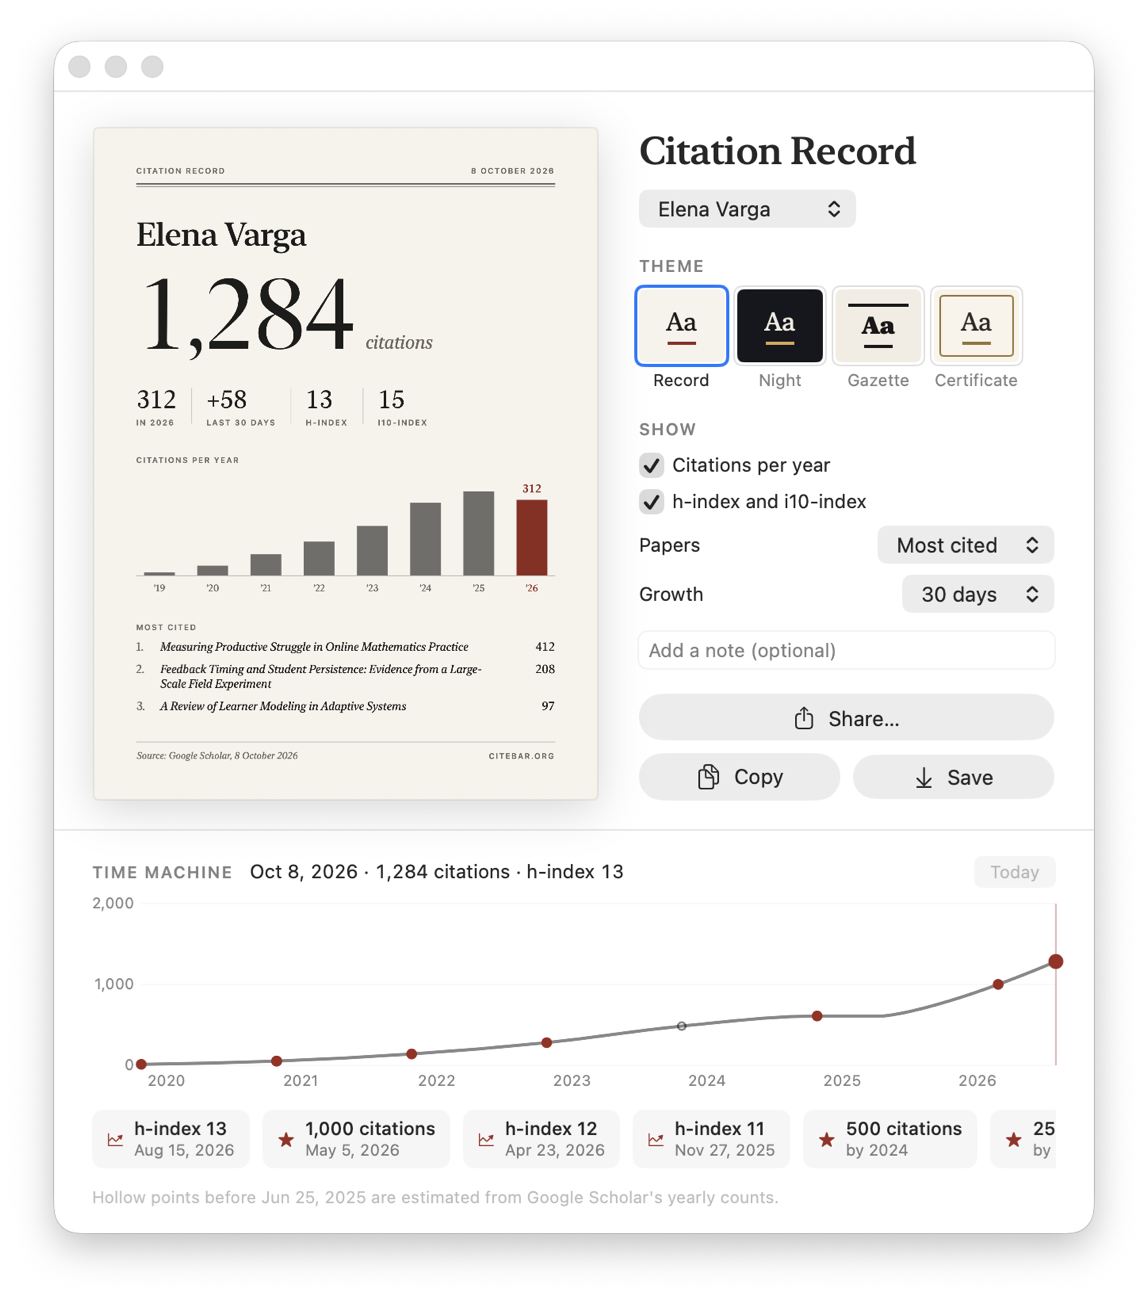
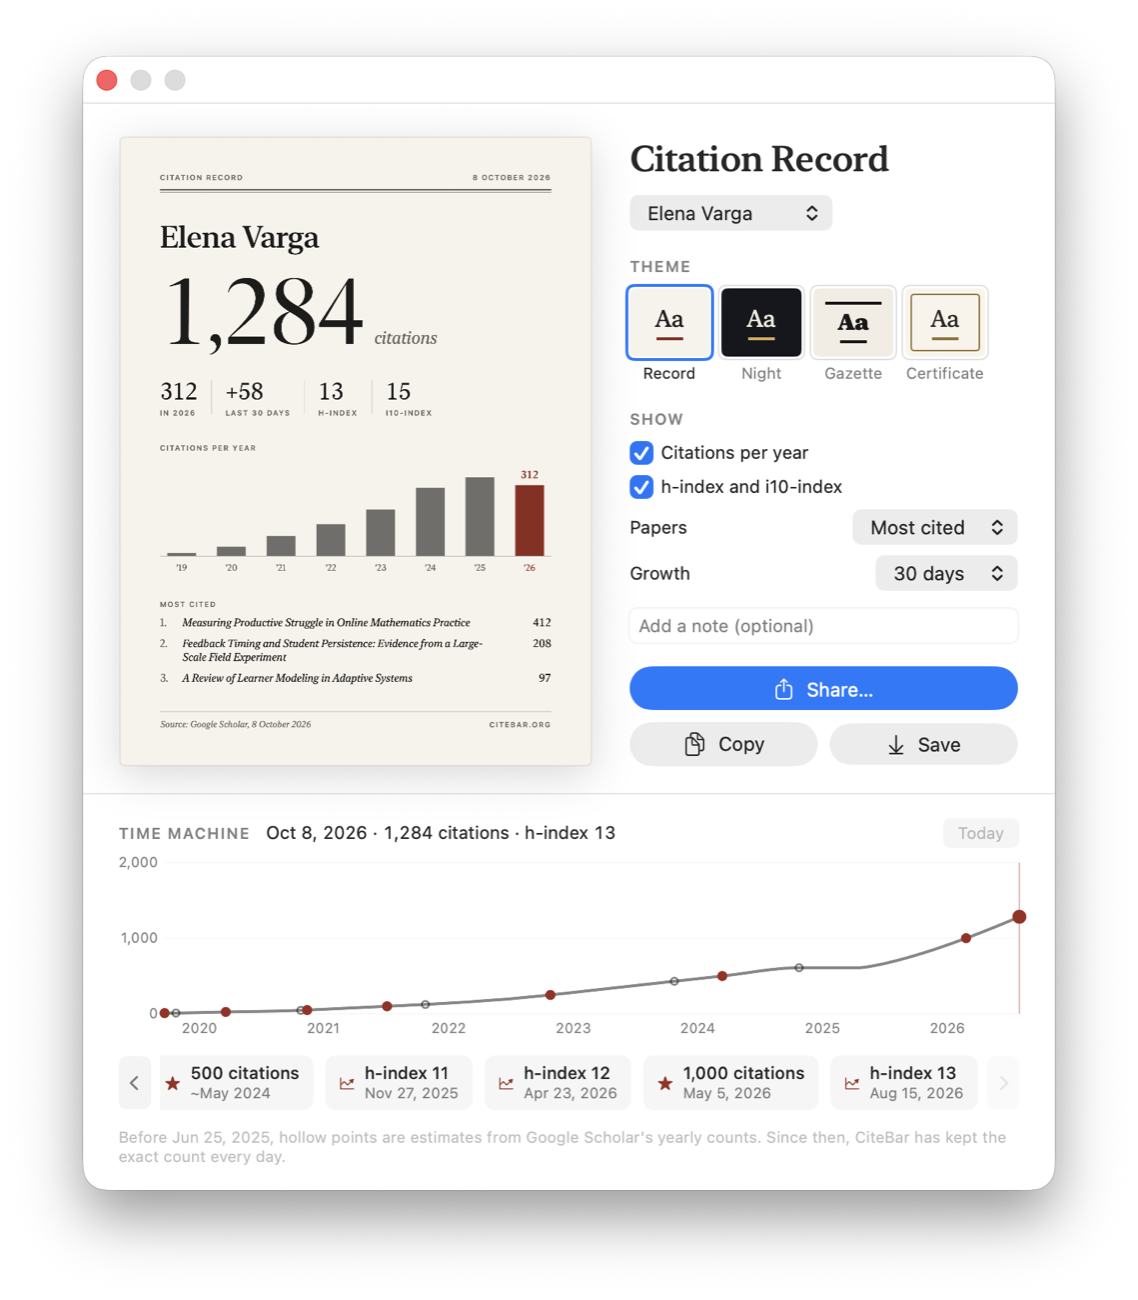
fix(studio): date earlier milestones from yearly counts and keep the papers option on past days

diff --git a/Sources/CiteBar/Timeline.swift b/Sources/CiteBar/Timeline.swift
@@ -1,8 +1,8 @@
 import Foundation
 
-/// A profile's citation history as a timeline: one point per tracked day, plus year-end
-/// estimates from Google Scholar's yearly counts for the years before tracking began, and the
-/// moments worth celebrating (citation milestones, h-index increases).
+/// A profile's citation history as a timeline: one point per tracked day, plus estimates from
+/// Google Scholar's yearly counts for the years before tracking began, and the moments worth
+/// celebrating (citation milestones, h-index increases).
 struct CitationTimeline {
     struct Point: Identifiable, Equatable {
         let date: Date
@@ -10,7 +10,7 @@ struct CitationTimeline {
         let hIndex: Int?
         let i10Index: Int?
         let citationsByYear: [Int: Int]?
-        /// Year-end total estimated from Scholar's per-year counts, before tracking began.
+        /// Estimated from Scholar's per-year counts, before tracking began.
         let isEstimate: Bool
 
         var id: Date { date }
@@ -24,7 +24,7 @@ struct CitationTimeline {
 
         let date: Date
         let kind: Kind
-        /// Dated to a year-end estimate rather than an observed refresh.
+        /// Dated by estimate rather than seen on a refresh.
         let isEstimate: Bool
 
         var id: String { "\(date.timeIntervalSince1970)-\(kind)" }
@@ -53,44 +53,75 @@ struct CitationTimeline {
                       citationsByYear: $0.citationsByYear, isEstimate: false)
             }
 
+        // Before tracking began, estimate year-end totals from Scholar's per-year counts. The latest
+        // counts are the most complete (records from older versions have none), and they're scaled
+        // to add up to that record's total, which also includes citations Scholar gives no year.
         var estimates: [Point] = []
-        if let first = tracked.first, let byYear = first.citationsByYear {
-            let firstYear = calendar.component(.year, from: first.date)
+        var origin: Point?
+        if let first = tracked.first,
+           let latest = tracked.last(where: { !($0.citationsByYear ?? [:]).isEmpty }),
+           let byYear = latest.citationsByYear,
+           let startYear = byYear.filter({ $0.value > 0 }).keys.min(),
+           let start = calendar.date(from: DateComponents(year: startYear, month: 1, day: 1)),
+           start < first.date {
+            let scale = Double(latest.citations) / Double(byYear.values.reduce(0, +))
+            origin = Point(date: start, citations: 0, hIndex: nil, i10Index: nil, citationsByYear: [:], isEstimate: true)
             var running = 0
-            for year in byYear.keys.sorted() where year < firstYear {
-                // Yearly counts can disagree slightly with the total; never estimate past
-                // the first tracked total, so the line only rises.
-                running = min(first.citations, running + (byYear[year] ?? 0))
-                guard running > 0,
-                      let yearEnd = calendar.date(from: DateComponents(year: year, month: 12, day: 31, hour: 12)) else {
+            for year in startYear..<calendar.component(.year, from: first.date) {
+                running += byYear[year] ?? 0
+                guard let yearEnd = calendar.date(from: DateComponents(year: year, month: 12, day: 31, hour: 12)) else {
                     continue
                 }
-                let soFar = byYear.filter { $0.key <= year }
-                estimates.append(Point(date: yearEnd, citations: running, hIndex: nil, i10Index: nil,
-                                       citationsByYear: soFar, isEstimate: true))
+                // Never past the first tracked total, so the line only rises.
+                let total = min(first.citations, Int((Double(running) * scale).rounded()))
+                estimates.append(Point(date: yearEnd, citations: total, hIndex: nil, i10Index: nil,
+                                       citationsByYear: byYear.filter { $0.key <= year }, isEstimate: true))
             }
         }
 
-        points = estimates + tracked
-        moments = Self.findMoments(in: points)
+        let found = Self.findMoments(in: estimates + tracked, after: origin, calendar: calendar)
+        points = (estimates + tracked + found.crossings).sorted { $0.date < $1.date }
+        moments = found.moments
     }
 
-    private static func findMoments(in points: [Point]) -> [Moment] {
+    /// Citation milestones and h-index increases. A milestone passed on an estimated stretch gets
+    /// a point of its own, dated as if citations came in evenly between its neighbours. Without
+    /// an estimated past, milestones already passed on the first tracked day are left out: their
+    /// dates are unknown.
+    private static func findMoments(in points: [Point], after origin: Point?,
+                                     calendar: Calendar) -> (moments: [Moment], crossings: [Point]) {
         var moments: [Moment] = []
-        var previous: Point?
+        var crossings: [Point] = []
+        var previous = origin
+        // Scholar's numbers sometimes dip and recover; only new highs count.
+        var bestCitations = origin?.citations ?? 0
+        var bestHIndex = 0
         for point in points {
-            let before = previous?.citations ?? 0
-            for threshold in CitationManager.citationMilestones where before < threshold && point.citations >= threshold {
-                // Crossed before the first tracked day: only known to the year (or the first day).
-                let isEstimate = point.isEstimate || (previous?.isEstimate ?? true)
-                moments.append(Moment(date: point.date, kind: .citations(threshold), isEstimate: isEstimate))
+            defer {
+                previous = point
+                bestCitations = max(bestCitations, point.citations)
+                bestHIndex = max(bestHIndex, point.hIndex ?? 0)
             }
-            if let old = previous?.hIndex, let new = point.hIndex, new > old {
+            guard let previous else { continue }
+            let isEstimate = previous.isEstimate || point.isEstimate
+            for threshold in CitationManager.citationMilestones
+            where bestCitations < threshold && point.citations >= threshold {
+                var date = point.date
+                if isEstimate && threshold < point.citations {
+                    let fraction = Double(threshold - previous.citations) / Double(point.citations - previous.citations)
+                    date = previous.date.addingTimeInterval(point.date.timeIntervalSince(previous.date) * fraction)
+                    var byYear = previous.citationsByYear ?? [:]
+                    byYear[calendar.component(.year, from: date), default: 0] += threshold - previous.citations
+                    crossings.append(Point(date: date, citations: threshold, hIndex: nil, i10Index: nil,
+                                           citationsByYear: byYear, isEstimate: true))
+                }
+                moments.append(Moment(date: date, kind: .citations(threshold), isEstimate: isEstimate))
+            }
+            if bestHIndex > 0, let new = point.hIndex, new > bestHIndex {
                 moments.append(Moment(date: point.date, kind: .hIndex(new), isEstimate: false))
             }
-            previous = point
         }
-        return moments
+        return (moments, crossings)
     }
 
     /// The latest point on or before `date`, or the first point when `date` is earlier.

diff --git a/Tests/CiteBarTests/CiteBarTests.swift b/Tests/CiteBarTests/CiteBarTests.swift
@@ -520,28 +520,51 @@ final class CiteBarTests: XCTestCase {
         func date(_ y: Int, _ m: Int, _ d: Int, _ h: Int = 10) -> Date {
             calendar.date(from: DateComponents(year: y, month: m, day: d, hour: h))!
         }
-        let byYear = [2023: 40, 2024: 50, 2025: 5]
+        // Like a profile first tracked by an older CiteBar: only the latest record has yearly counts.
         let records = [
-            CitationRecord(profileId: "p", citationCount: 95, hIndex: 4, citationsByYear: byYear, timestamp: date(2025, 1, 10, 9)),
-            CitationRecord(profileId: "p", citationCount: 96, hIndex: 4, citationsByYear: byYear, timestamp: date(2025, 1, 10, 18)),
-            CitationRecord(profileId: "p", citationCount: 101, hIndex: 5, citationsByYear: byYear, timestamp: date(2025, 2, 1)),
-            CitationRecord(profileId: "p", citationCount: 110, hIndex: 5, citationsByYear: byYear, timestamp: date(2025, 3, 1))
+            CitationRecord(profileId: "p", citationCount: 95, hIndex: 4, timestamp: date(2025, 1, 10, 9)),
+            CitationRecord(profileId: "p", citationCount: 96, hIndex: 4, timestamp: date(2025, 1, 10, 18)),
+            CitationRecord(profileId: "p", citationCount: 101, hIndex: 5, timestamp: date(2025, 2, 1)),
+            CitationRecord(profileId: "p", citationCount: 110, hIndex: 5,
+                           citationsByYear: [2023: 40, 2024: 50, 2025: 20], timestamp: date(2025, 3, 1))
         ]
         let timeline = CitationTimeline(records: records)
 
-        // Two year-end estimates (2023: 40, 2024: 90), then one point per tracked day.
-        XCTAssertEqual(timeline.points.map(\.citations), [40, 90, 96, 101, 110])
-        XCTAssertEqual(timeline.points.map(\.isEstimate), [true, true, false, false, false])
+        // Year-end estimates (2023: 40, 2024: 90), milestone points in between, then one point per tracked day.
+        XCTAssertEqual(timeline.points.map(\.citations), [10, 25, 40, 50, 90, 96, 101, 110])
+        XCTAssertEqual(timeline.points.map(\.isEstimate), [true, true, true, true, true, false, false, false])
         XCTAssertEqual(timeline.firstTrackedDate, date(2025, 1, 10, 18))
 
         XCTAssertEqual(timeline.moments.map(\.kind), [.citations(10), .citations(25), .citations(50), .citations(100), .hIndex(5)])
         XCTAssertTrue(timeline.moments[0].isEstimate)
+        // 10 of 2023's 40 citations: about a quarter of the way through 2023.
+        XCTAssertEqual(calendar.dateComponents([.year, .month], from: timeline.moments[0].date), DateComponents(year: 2023, month: 4))
+        // 50 is 10 into 2024's 50: about a fifth of the way through 2024.
+        XCTAssertEqual(calendar.dateComponents([.year, .month], from: timeline.moments[2].date), DateComponents(year: 2024, month: 3))
+        XCTAssertEqual(timeline.point(at: timeline.moments[2].date)?.citations, 50)
         XCTAssertFalse(timeline.moments[3].isEstimate, "100 was crossed between two tracked days")
         XCTAssertEqual(timeline.milestone(on: date(2025, 2, 1, 20)), 100)
 
         XCTAssertEqual(timeline.point(at: date(2025, 2, 15))?.citations, 101)
         let growth = timeline.growth(endingAt: date(2025, 3, 2), days: 30)
         XCTAssertEqual(growth?.value, 14, "From the Jan 10 point (96) to Mar 1 (110), since nothing is 30 days back")
+
+        // A dip and recovery is not a new milestone.
+        let wobbly = CitationTimeline(records: [
+            CitationRecord(profileId: "p", citationCount: 98, hIndex: 5, timestamp: date(2025, 6, 1)),
+            CitationRecord(profileId: "p", citationCount: 101, hIndex: 6, timestamp: date(2025, 6, 2)),
+            CitationRecord(profileId: "p", citationCount: 99, hIndex: 5, timestamp: date(2025, 6, 3)),
+            CitationRecord(profileId: "p", citationCount: 102, hIndex: 6, timestamp: date(2025, 6, 4))
+        ])
+        XCTAssertEqual(wobbly.moments.map(\.kind), [.citations(100), .hIndex(6)])
+
+        // Without yearly counts there's no estimated past, so milestones already passed have no date.
+        let untracked = CitationTimeline(records: [
+            CitationRecord(profileId: "p", citationCount: 1_167, timestamp: date(2025, 6, 26)),
+            CitationRecord(profileId: "p", citationCount: 1_170, timestamp: date(2025, 6, 27))
+        ])
+        XCTAssertEqual(untracked.points.count, 2)
+        XCTAssertTrue(untracked.moments.isEmpty)
     }
 
     func testScholarIDParser() {

diff --git a/Sources/CiteBar/CardStudioView.swift b/Sources/CiteBar/CardStudioView.swift
@@ -201,7 +201,6 @@ struct CardStudioView: View {
                         ForEach(CardPapers.allCases) { Text($0.title).tag($0.rawValue) }
                     }
                 }
-                .disabled(!isToday)
                 if papersMode == .featured && isToday && !paperChoices.isEmpty {
                     Picker("Paper", selection: $featuredPaperID) {
                         ForEach(paperChoices.prefix(40), id: \.id) { paper in
@@ -226,9 +225,7 @@ struct CardStudioView: View {
                 .padding(.top, 12)
 
             if !isToday {
-                Text(selectedPointIsEstimate
-                     ? "This day is before CiteBar started tracking, so the total is estimated from Google Scholar's yearly counts."
-                     : "Showing the record as of this day. Paper lists are only kept for today.")
+                Text(pastDayNote)
                     .font(.system(size: 11))
                     .foregroundStyle(.secondary)
                     .fixedSize(horizontal: false, vertical: true)
@@ -276,8 +273,13 @@ struct CardStudioView: View {
         .fixedSize(horizontal: false, vertical: true)
     }
 
-    private var selectedPointIsEstimate: Bool {
-        selectedDate.flatMap { timeline?.point(at: $0)?.isEstimate } ?? false
+    private var pastDayNote: String {
+        let isEstimate = selectedDate.flatMap { timeline?.point(at: $0)?.isEstimate } ?? false
+        let record = isEstimate
+            ? "This day is before CiteBar started tracking, so the total is estimated from Google Scholar's yearly counts."
+            : "Showing the record as of this day."
+        // Only the latest paper list is kept.
+        return papersMode == .none ? record : record + " Papers appear on today's card only."
     }
 
     private func label(_ text: String) -> some View {
@@ -451,9 +453,10 @@ private struct TimeMachineView: View {
             }
 
             if let first = timeline.firstTrackedDate, timeline.points.first?.isEstimate == true {
-                Text("Hollow points before \(first.formatted(date: .abbreviated, time: .omitted)) are estimated from Google Scholar's yearly counts.")
+                Text("Before \(first.formatted(date: .abbreviated, time: .omitted)), hollow points are estimates from Google Scholar's yearly counts. Since then, CiteBar has kept the exact count every day.")
                     .font(.system(size: 10.5))
                     .foregroundStyle(.tertiary)
+                    .fixedSize(horizontal: false, vertical: true)
             }
         }
     }
@@ -589,8 +592,9 @@ private struct TimeMachineView: View {
     }
 
     private func summary(_ point: CitationTimeline.Point) -> String {
+        let estimated = CardContent.estimatedWhen(point.date)
         let date = point.isEstimate
-            ? "End of \(Calendar.current.component(.year, from: point.date))"
+            ? estimated.prefix(1).uppercased() + estimated.dropFirst()
             : point.date.formatted(date: .abbreviated, time: .omitted)
         var text = "\(date) · \(point.isEstimate ? "~" : "")\(point.citations.decimalString) citations"
         if let hIndex = point.hIndex {
@@ -642,7 +646,7 @@ private struct MomentChip: View {
                     Text(moment.title)
                         .font(.system(size: 11.5, weight: .medium))
                     Text(moment.isEstimate
-                         ? "by \(moment.date.formatted(.dateTime.year()))"
+                         ? "~" + moment.date.formatted(.dateTime.month(.abbreviated).year())
                          : moment.date.formatted(date: .abbreviated, time: .omitted))
                         .font(.system(size: 10))
                         .foregroundStyle(.secondary)
@@ -660,6 +664,8 @@ private struct MomentChip: View {
             )
         }
         .buttonStyle(.plain)
-        .help("Make a card for \(moment.title)")
+        .help(moment.isEstimate
+              ? "Make a card for \(moment.title). The date is estimated from Google Scholar's yearly counts."
+              : "Make a card for \(moment.title)")
     }
 }

diff --git a/Sources/CiteBar/StatsCard.swift b/Sources/CiteBar/StatsCard.swift
@@ -80,7 +80,7 @@ struct CardGrowthValue: Equatable {
 struct CardContent: Equatable {
     var name: String
     var date: Date
-    /// A year-end total estimated from Scholar's per-year counts.
+    /// A total estimated from Scholar's per-year counts, from before tracking began.
     var isEstimate = false
     var citations: Int
     var hIndex: Int?
@@ -108,13 +108,27 @@ struct CardContent: Equatable {
         return formatter.string(from: date)
     }
 
+    var estimatedWhen: String { Self.estimatedWhen(date) }
+
+    /// When an estimate is from: "end of 2024" for a year-end total, otherwise "around March 2025".
+    static func estimatedWhen(_ date: Date) -> String {
+        let day = Calendar.current.dateComponents([.year, .month, .day], from: date)
+        if day.month == 12 && day.day == 31 {
+            return "end of \(day.year ?? 0)"
+        }
+        let formatter = DateFormatter()
+        formatter.locale = Locale(identifier: "en_US_POSIX")
+        formatter.dateFormat = "MMMM yyyy"
+        return "around \(formatter.string(from: date))"
+    }
+
     var dateText: String {
-        isEstimate ? "End of \(year)" : Self.longDate(date)
+        isEstimate ? estimatedWhen.prefix(1).uppercased() + estimatedWhen.dropFirst() : Self.longDate(date)
     }
 
     var sourceText: String {
         isEstimate
-            ? "Source: Google Scholar yearly counts, approximate, end of \(year)"
+            ? "Source: Google Scholar yearly counts, approximate, \(estimatedWhen)"
             : "Source: Google Scholar, \(Self.longDate(date))"
     }
 }
@@ -158,7 +172,7 @@ struct StatsCard: View {
         if let milestone = content.milestone {
             return (
                 "\(surname) Passes \(milestone.decimalString) Citations",
-                "The mark fell on \(CardContent.longDate(content.date)). \(content.name)'s work is now cited \(total) times on Google Scholar\(hClause)."
+                "The mark fell \(content.isEstimate ? content.estimatedWhen : "on " + CardContent.longDate(content.date)). \(content.name)'s work is now cited \(total) times on Google Scholar\(hClause)."
             )
         }
         if let paper = content.featured {
@@ -178,7 +192,7 @@ struct StatsCard: View {
         return (
             "\(surname)'s Work Now Cited \(total) Times",
             content.isEstimate
-                ? "An estimate from Google Scholar's yearly counts at the end of \(content.year)."
+                ? "An estimate from Google Scholar's yearly counts, \(content.estimatedWhen)."
                 : "So says Google Scholar as of \(CardContent.longDate(content.date))\(hClause)."
         )
     }
@@ -449,7 +463,7 @@ private struct GazetteLayout: View {
         let formatter = DateFormatter()
         formatter.locale = Locale(identifier: "en_US_POSIX")
         formatter.dateFormat = "EEEE, d MMMM yyyy"
-        return content.isEstimate ? "End of \(content.year)" : formatter.string(from: content.date)
+        return content.isEstimate ? content.dateText : formatter.string(from: content.date)
     }
 
     var body: some View {
@@ -623,7 +637,9 @@ private struct CertificateLayout: View {
     /// "as of the eighth of October, 2026"
     private var dateInWords: String {
         if content.isEstimate {
-            return "by the end of \(content.year), approximately"
+            return content.estimatedWhen.hasPrefix("end")
+                ? "by the \(content.estimatedWhen), approximately"
+                : "as of \(content.estimatedWhen.replacingOccurrences(of: "around", with: "about"))"
         }
         let day = Calendar.current.component(.day, from: content.date)
         let formatter = DateFormatter()

diff --git a/website/index.html b/website/index.html
@@ -266,11 +266,12 @@
             <p>CiteBar keeps a record of every refresh. Drag along the timeline to any day, or jump to a moment such as passing 500 citations or a new h-index, and the card shows the record as of that day.</p>
             <ul class="feature-points">
               <li>Milestones and h-index increases are marked for you</li>
-              <li>Before you installed CiteBar, Scholar's yearly counts fill in the timeline</li>
+              <li>Something to share on day one: earlier milestones are dated from Scholar's yearly counts</li>
+              <li>From the day you install it, every day is recorded exactly</li>
               <li>A milestone notification opens the moment, ready to share</li>
             </ul>
           </div>
-          <img class="feature-shot" src="assets/studio.png" width="574" height="650" loading="lazy" alt="The Citation Record studio: a card preview, theme choices, options for what to show, and a time machine chart with milestones.">
+          <img class="feature-shot" src="assets/studio.png" width="569" height="650" loading="lazy" alt="The Citation Record studio: a card preview, theme choices, options for what to show, and a time machine chart with milestones.">
         </div>
 
         <div class="gallery-block reveal">
@@ -436,7 +437,7 @@
           <details class="faq-item" name="faq">
             <summary>How does the time machine know my past citations?</summary>
             <div class="faq-content">
-              <p>CiteBar records each refresh on your Mac, so every day since you installed it is exact. For the years before that, it estimates year-end totals from Google Scholar's citations-per-year counts, and marks them as approximate.</p>
+              <p>CiteBar records each refresh on your Mac, so every day since you installed it is exact. For the time before that, it adds up Google Scholar's citations-per-year counts, and dates each earlier milestone as if that year's citations came in evenly, so passing 500 citations might read "~Mar 2021". Estimates are always marked with a ~. Each day CiteBar runs is added to the exact record.</p>
             </div>
           </details>
           <details class="faq-item" name="faq">

diff --git a/CHANGELOG.md b/CHANGELOG.md
@@ -10,7 +10,7 @@ and this project adheres to [Semantic Versioning](https://semver.org/spec/v2.0.0
 ### Added
 - **Card Themes**: The Citation Record studio offers four themes: Record, Night, Gazette (a newspaper front page with a headline written from the numbers), and Certificate (with a seal, the date in words, and an option to certify a single paper)
 - **Card Options**: Choose what the card shows: citations per year, h-index and i10-index, papers (none, most cited, or one featured paper), growth over 7, 30, 90, or 365 days, and an optional note. Choices are remembered, and the preview updates live
-- **Time Machine**: A timeline of citations in the studio. Drag to any day and the card shows the record as of that day. Citation milestones and h-index increases are marked and listed; before tracking began, year-end estimates from Google Scholar's yearly counts fill in the timeline
+- **Time Machine**: A timeline of citations in the studio. Drag to any day and the card shows the record as of that day. Citation milestones and h-index increases are marked and listed, with ‹ › to step between them. Before tracking began, Google Scholar's yearly counts fill in the timeline and date earlier milestones (marked ~), so there's something to share on day one
 - **Milestone Cards**: Clicking a milestone notification opens the studio, ready to share the moment
 
 ### Changed

diff --git a/README.md b/README.md
@@ -85,7 +85,7 @@ Having trouble installing? See the [Install Guide](DISTRIBUTION.md).
 **A time machine for your record**
 - Drag along a timeline to any day and make the card for that day
 - Citation milestones and h-index increases are marked, so you can share a moment you missed
-- Before you installed CiteBar, Google Scholar's yearly counts fill in the timeline as estimates
+- Works from day one: milestones from before you installed CiteBar are dated from Google Scholar's yearly counts and marked with ~, and every day since is recorded exactly
 
 **Respectful and reliable**
 - One request per profile, spaced two seconds apart
